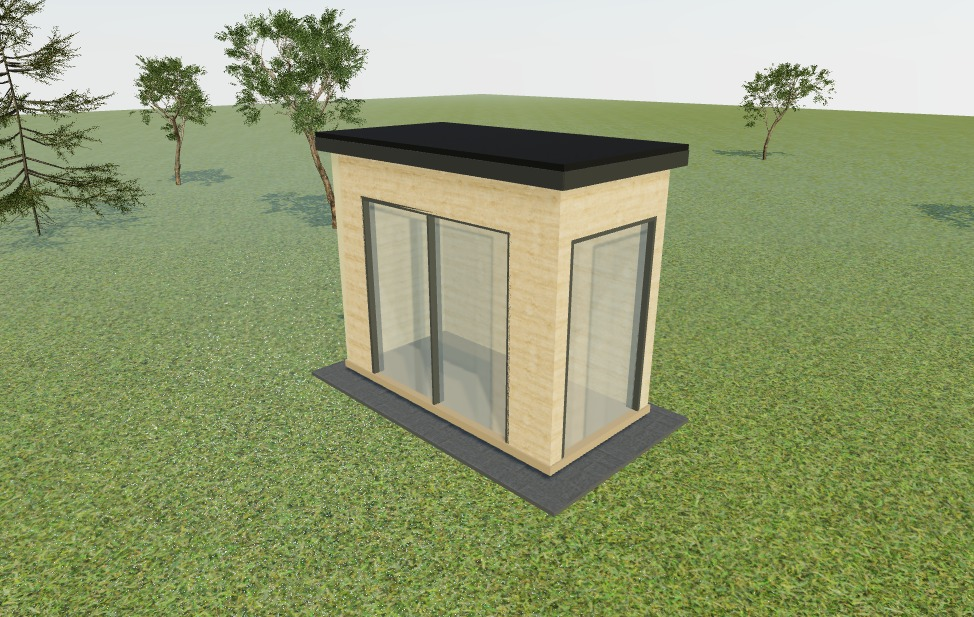
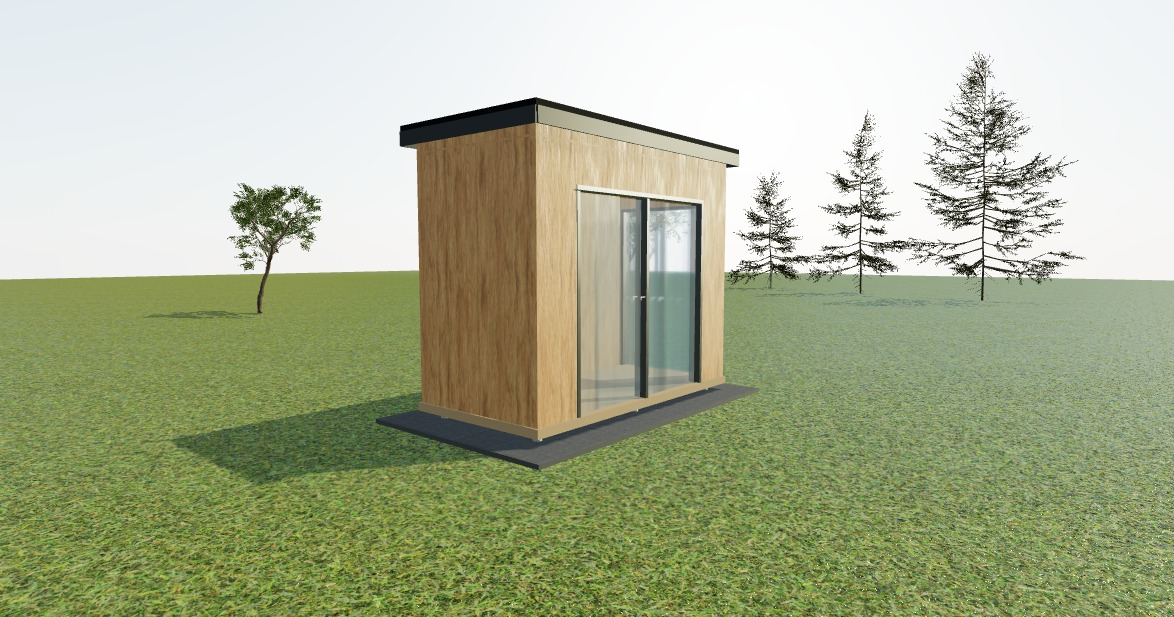
feat: Template-Vorschaubilder, Startseite optimiert, Tiny House + Wellness-Oase entfernt
- 11 neue 3D-Vorschaubilder für Templates (alle Templates haben jetzt Bilder)
- Leere Szene mit Gras-Vorschaubild statt Plus-Icon
- Gästehaus + Garden Office Deluxe mit mehr Kameraabstand neu aufgenommen
- Hero-Text: Pergola-Lounge ergänzt
- ConceptStrip: kompaktes Inline-Layout (Icon + Text nebeneinander)
- Konfigurator-Header von Startseite entfernt
- Templates entfernt: Tiny House, Wellness-Oase

diff --git a/src/data/templates.ts b/src/data/templates.ts
@@ -25,6 +25,7 @@ export const TEMPLATES: Template[] = [
     name: 'Starter-Modul',
     description:
       'Ein einzelnes 3,0 × 1,5 m Modul – der kompakteste Einstieg. Perfekt als Gartenhaus, Mini-Office oder Ausgangspunkt für spätere Erweiterungen.',
+    image: '/templates/starter.jpg',
     persons: 'Flexibel',
     basePrice: 6800,
     modules: [
@@ -38,6 +39,7 @@ export const TEMPLATES: Template[] = [
     name: 'Kompakt-Kubus',
     description:
       'Quadratisches 3,0 × 3,0 m Raumwunder mit Panoramafenster. Ideal als vollwertiges Home Office oder gemütliches Gästezimmer.',
+    image: '/templates/kompakt-kubus.jpg',
     persons: '1–2 Personen',
     basePrice: 11500,
     modules: [
@@ -51,6 +53,7 @@ export const TEMPLATES: Template[] = [
     name: 'Kubus mit Terrasse',
     description:
       'Großzügiger Kubus mit überdachter Glasdach-Terrasse – perfekt als Home Office mit Pausenbereich oder als Gartenlounge mit Rückzugsraum.',
+    image: '/templates/kubus-terrasse.jpg',
     persons: '1–2 Personen',
     basePrice: 17000,
     modules: [
@@ -65,6 +68,7 @@ export const TEMPLATES: Template[] = [
     name: 'Garten-Studio',
     description:
       'Zwei verbundene Living-Module: großer Hauptraum mit Panoramafenster und separater Eingangsbereich. Ideal als Atelier, Praxis oder Gästewohnung.',
+    image: '/templates/garten-studio.jpg',
     persons: '1–3 Personen',
     basePrice: 18400,
     modules: [
@@ -79,6 +83,7 @@ export const TEMPLATES: Template[] = [
     name: 'Studio mit Terrasse',
     description:
       'Zwei Living-Module mit vorgelagerter Glasdach-Pergola: Arbeiten, Empfangen und Entspannen unter einem Dach.',
+    image: '/templates/studio-terrasse.jpg',
     persons: '2–4 Personen',
     basePrice: 23800,
     modules: [
@@ -88,49 +93,13 @@ export const TEMPLATES: Template[] = [
     ],
   },
 
-  // ★★★★★ Komplett: Tiny House mit Bad (intern erreichbar)
-  {
-    id: 'tiny-house',
-    name: 'Tiny House',
-    description:
-      'Kompaktes Mini-Haus: Wohnbereich mit Terrassentür zur Pergola und eigenem Bad – alles intern verbunden auf minimaler Fläche.',
-    persons: '1–2 Personen',
-    basePrice: 22200,
-    modules: [
-      // Wohnraum – Haupteingang über Terrassentür, Interior-Tür links zum Bad
-      {
-        type: 'living', gridX: 3, gridY: 0, width: 6, height: 6, options: {},
-        walls: {
-          front: [TERRACE_DOOR],
-          back: [PANORAMA_WINDOW],
-          left: [],
-          right: [SIDE_WINDOW],
-          interiorWalls: {
-            left: [INTERIOR_DOOR],
-          },
-        },
-      },
-      // Bad – kein Außeneingang, nur über Wohnraum erreichbar
-      {
-        type: 'sanitaer', gridX: 0, gridY: 0, width: 3, height: 6, options: {},
-        walls: {
-          front: [PRIVACY_WINDOW],
-          back: [],
-          left: [PRIVACY_WINDOW],
-          right: [],
-        },
-      },
-      // Überdachte Terrasse vor dem Wohnraum
-      { type: 'pergola', gridX: 3, gridY: 6, width: 6, height: 6, options: { dachtyp: 'glas' } },
-    ],
-  },
-
   // ★★★★★★ Premium: Garden Office Deluxe
   {
     id: 'garden-office-deluxe',
     name: 'Garden Office Deluxe',
     description:
       'Premium Home Office: Empfangs-/Meetingraum, großes Büro, eigenes WC und Glasdach-Pergola. WC intern über das Büro erreichbar.',
+    image: '/templates/garden-office-deluxe.jpg',
     persons: '2–6 Personen',
     basePrice: 29000,
     modules: [
@@ -182,6 +151,7 @@ export const TEMPLATES: Template[] = [
     name: 'Sauna Kompakt',
     description:
       'Einstieg in die eigene Sauna: kompakter Saunakern mit Technikraum als Vorraum. Saunaeingang nur über den Technikraum – wie es sein soll.',
+    image: '/templates/sauna-kompakt.jpg',
     persons: '3 Personen',
     basePrice: 11700,
     modules: [
@@ -217,6 +187,7 @@ export const TEMPLATES: Template[] = [
     name: 'Sauna Deluxe',
     description:
       'Großzügige 3 × 3 m Sauna mit Panorama-Saunafenster und separatem Technikraum. Saunaeingang nur über den Technikraum.',
+    image: '/templates/sauna-deluxe.jpg',
     persons: '6 Personen',
     basePrice: 17650,
     modules: [
@@ -252,6 +223,7 @@ export const TEMPLATES: Template[] = [
     name: 'Sauna mit Terrasse',
     description:
       'Saunakern mit Technikraum und Glasdach-Pergola zum Entspannen nach dem Saunieren. Saunaeinstieg über den Technikraum.',
+    image: '/templates/sauna-terrasse.jpg',
     persons: '4–6 Personen',
     basePrice: 23100,
     modules: [
@@ -289,6 +261,7 @@ export const TEMPLATES: Template[] = [
     name: 'Wellness-Suite',
     description:
       'Komplettes Wellness-Erlebnis: Saunakern, Umkleide, Eingangsbereich und Chillout-Lounge – alles intern verbunden. 9,0 × 3,0 m Gesamtlänge.',
+    image: '/templates/wellness-suite.jpg',
     persons: '4–6 Personen',
     basePrice: 25800,
     modules: [
@@ -351,6 +324,7 @@ export const TEMPLATES: Template[] = [
     name: 'Wellness-Retreat',
     description:
       'Sauna, Dusche und Ruhebereich – Ihr privates Spa. Einstieg über den Ruheraum, intern zur Sauna und Dusche verbunden.',
+    image: '/templates/wellness-retreat.jpg',
     persons: '4 Personen',
     basePrice: 24200,
     modules: [
@@ -388,54 +362,6 @@ export const TEMPLATES: Template[] = [
           interiorWalls: {
             back: [INTERIOR_DOOR],
           },
-        },
-      },
-    ],
-  },
-
-  // ★★★★★ Wellness-Oase: Umkleide → Sauna → Sanitär (Reihe, intern verbunden)
-  {
-    id: 'wellness-oase',
-    name: 'Wellness-Oase',
-    description:
-      'Umkleiden, Saunieren, Duschen – alles in einer Reihe und intern verbunden. Einstieg über die Umkleide, Sauna und Dusche nur von innen erreichbar.',
-    persons: '3–4 Personen',
-    basePrice: 22700,
-    modules: [
-      // Umkleide – Außentür vorne (Einstieg), Interior-Tür rechts → Sauna
-      {
-        type: 'umkleide', gridX: 0, gridY: 0, width: 6, height: 3, options: {},
-        walls: {
-          front: [STANDARD_DOOR],
-          back: [],
-          left: [],
-          right: [],
-          interiorWalls: {
-            right: [INTERIOR_DOOR],
-          },
-        },
-      },
-      // Sauna – KEIN Außeneingang, Panorama-Streifenfenster, Interior-Tür rechts → Sanitär
-      {
-        type: 'sauna', gridX: 6, gridY: 0, width: 6, height: 3, options: {},
-        walls: {
-          front: [SAUNA_PANORAMA_SMALL],
-          back: [],
-          left: [],
-          right: [],
-          interiorWalls: {
-            right: [INTERIOR_DOOR],
-          },
-        },
-      },
-      // Sanitär – KEIN Außeneingang, nur über Sauna erreichbar
-      {
-        type: 'sanitaer', gridX: 12, gridY: 0, width: 6, height: 3, options: {},
-        walls: {
-          front: [PRIVACY_WINDOW],
-          back: [],
-          left: [],
-          right: [],
         },
       },
     ],

diff --git a/src/components/website/ConceptStrip.tsx b/src/components/website/ConceptStrip.tsx
@@ -30,15 +30,19 @@ const concepts = [
 
 export function ConceptStrip() {
   return (
-    <section className="border-b border-gray-100 bg-white py-12">
-      <div className="mx-auto grid max-w-5xl gap-8 px-4 md:grid-cols-3">
+    <section className="border-b border-gray-100 bg-white py-4">
+      <div className="mx-auto flex max-w-5xl flex-col gap-3 px-4 md:flex-row md:gap-6">
         {concepts.map((c) => (
-          <div key={c.title} className="flex flex-col items-center text-center md:items-start md:text-left">
-            <div className="flex h-14 w-14 items-center justify-center rounded-xl bg-wood-50 text-wood-600">
-              {c.icon}
+          <div key={c.title} className="flex flex-1 items-start gap-3">
+            <div className="flex h-9 w-9 shrink-0 items-center justify-center rounded-lg bg-wood-50 text-wood-600">
+              <svg className="h-5 w-5" fill="none" stroke="currentColor" viewBox="0 0 24 24">
+                {c.icon.props.children}
+              </svg>
             </div>
-            <h3 className="mt-3 text-base font-semibold text-gray-900">{c.title}</h3>
-            <p className="mt-1 text-sm leading-relaxed text-gray-500">{c.text}</p>
+            <div>
+              <h3 className="text-sm font-semibold text-gray-900">{c.title}</h3>
+              <p className="text-xs leading-snug text-gray-500">{c.text}</p>
+            </div>
           </div>
         ))}
       </div>

diff --git a/src/features/template-selection/TemplateSelectionStep.tsx b/src/features/template-selection/TemplateSelectionStep.tsx
@@ -32,13 +32,12 @@ export function TemplateSelectionStep() {
           <p className="text-sm text-gray-600">
             Starten Sie mit einer leeren Fläche und platzieren Sie Module komplett nach Ihren Vorstellungen – volle Freiheit im 3D-Konfigurator.
           </p>
-          <div className="mt-3 flex items-center justify-center overflow-hidden rounded-lg bg-gradient-to-br from-gray-50 to-gray-100 h-[104px]">
-            <div className="text-center text-gray-400">
-              <svg className="mx-auto h-10 w-10 mb-1" fill="none" viewBox="0 0 24 24" strokeWidth={1.5} stroke="currentColor">
-                <path strokeLinecap="round" strokeLinejoin="round" d="M12 4.5v15m7.5-7.5h-15" />
-              </svg>
-              <span className="text-xs">Eigene Konfiguration</span>
-            </div>
+          <div className="mt-3 overflow-hidden rounded-lg bg-gradient-to-br from-gray-50 to-gray-100">
+            <img
+              src="/templates/leere-szene.jpg"
+              alt="Leere Szene"
+              className="h-40 w-full object-cover"
+            />
           </div>
         </Card>
 

diff --git a/src/pages/Home.tsx b/src/pages/Home.tsx
@@ -2,7 +2,6 @@ import { useNavigate } from 'react-router-dom';
 import { Hero } from '../components/website/Hero';
 import { ConceptStrip } from '../components/website/ConceptStrip';
 import { QualityFeatures } from '../components/website/QualityFeatures';
-import { Header } from '../components/layout/Header';
 import { Stepper } from '../components/ui/Stepper';
 import { STEPS, useWizardStore } from '../store/useWizardStore';
 import { TemplateSelectionStep } from '../features/template-selection/TemplateSelectionStep';
@@ -25,8 +24,7 @@ export function Home() {
 
       {/* Vorlagen-Auswahl */}
       <section id="konfigurator" className="scroll-mt-16">
-        <Header />
-        <div className="border-b border-gray-100 bg-white px-4 py-3">
+        <div className="border-b border-gray-100 bg-white px-4 py-2">
           <Stepper steps={[...STEPS]} currentStep={0} onStepClick={() => {}} />
         </div>
         <div className="mx-auto max-w-5xl px-4 py-6">

diff --git a/src/components/website/Hero.tsx b/src/components/website/Hero.tsx
@@ -21,7 +21,7 @@ export function Hero() {
             <span className="text-wood-200">in 3 Schritten</span>
           </h1>
           <p className="mt-4 text-lg text-wood-100/80 md:text-xl">
-            Premium-Sauna, Home Office oder Wohnraum -- konfigurieren Sie Ihr individuelles Modulhaus in Echtzeit und erleben Sie es in 3D.
+            Premium-Sauna, Home Office, Wohnraum oder Pergola-Lounge -- konfigurieren Sie Ihr individuelles Modulhaus in Echtzeit und erleben Sie es in 3D.
           </p>
           <div className="mt-8 flex flex-wrap gap-3">
             <Link
